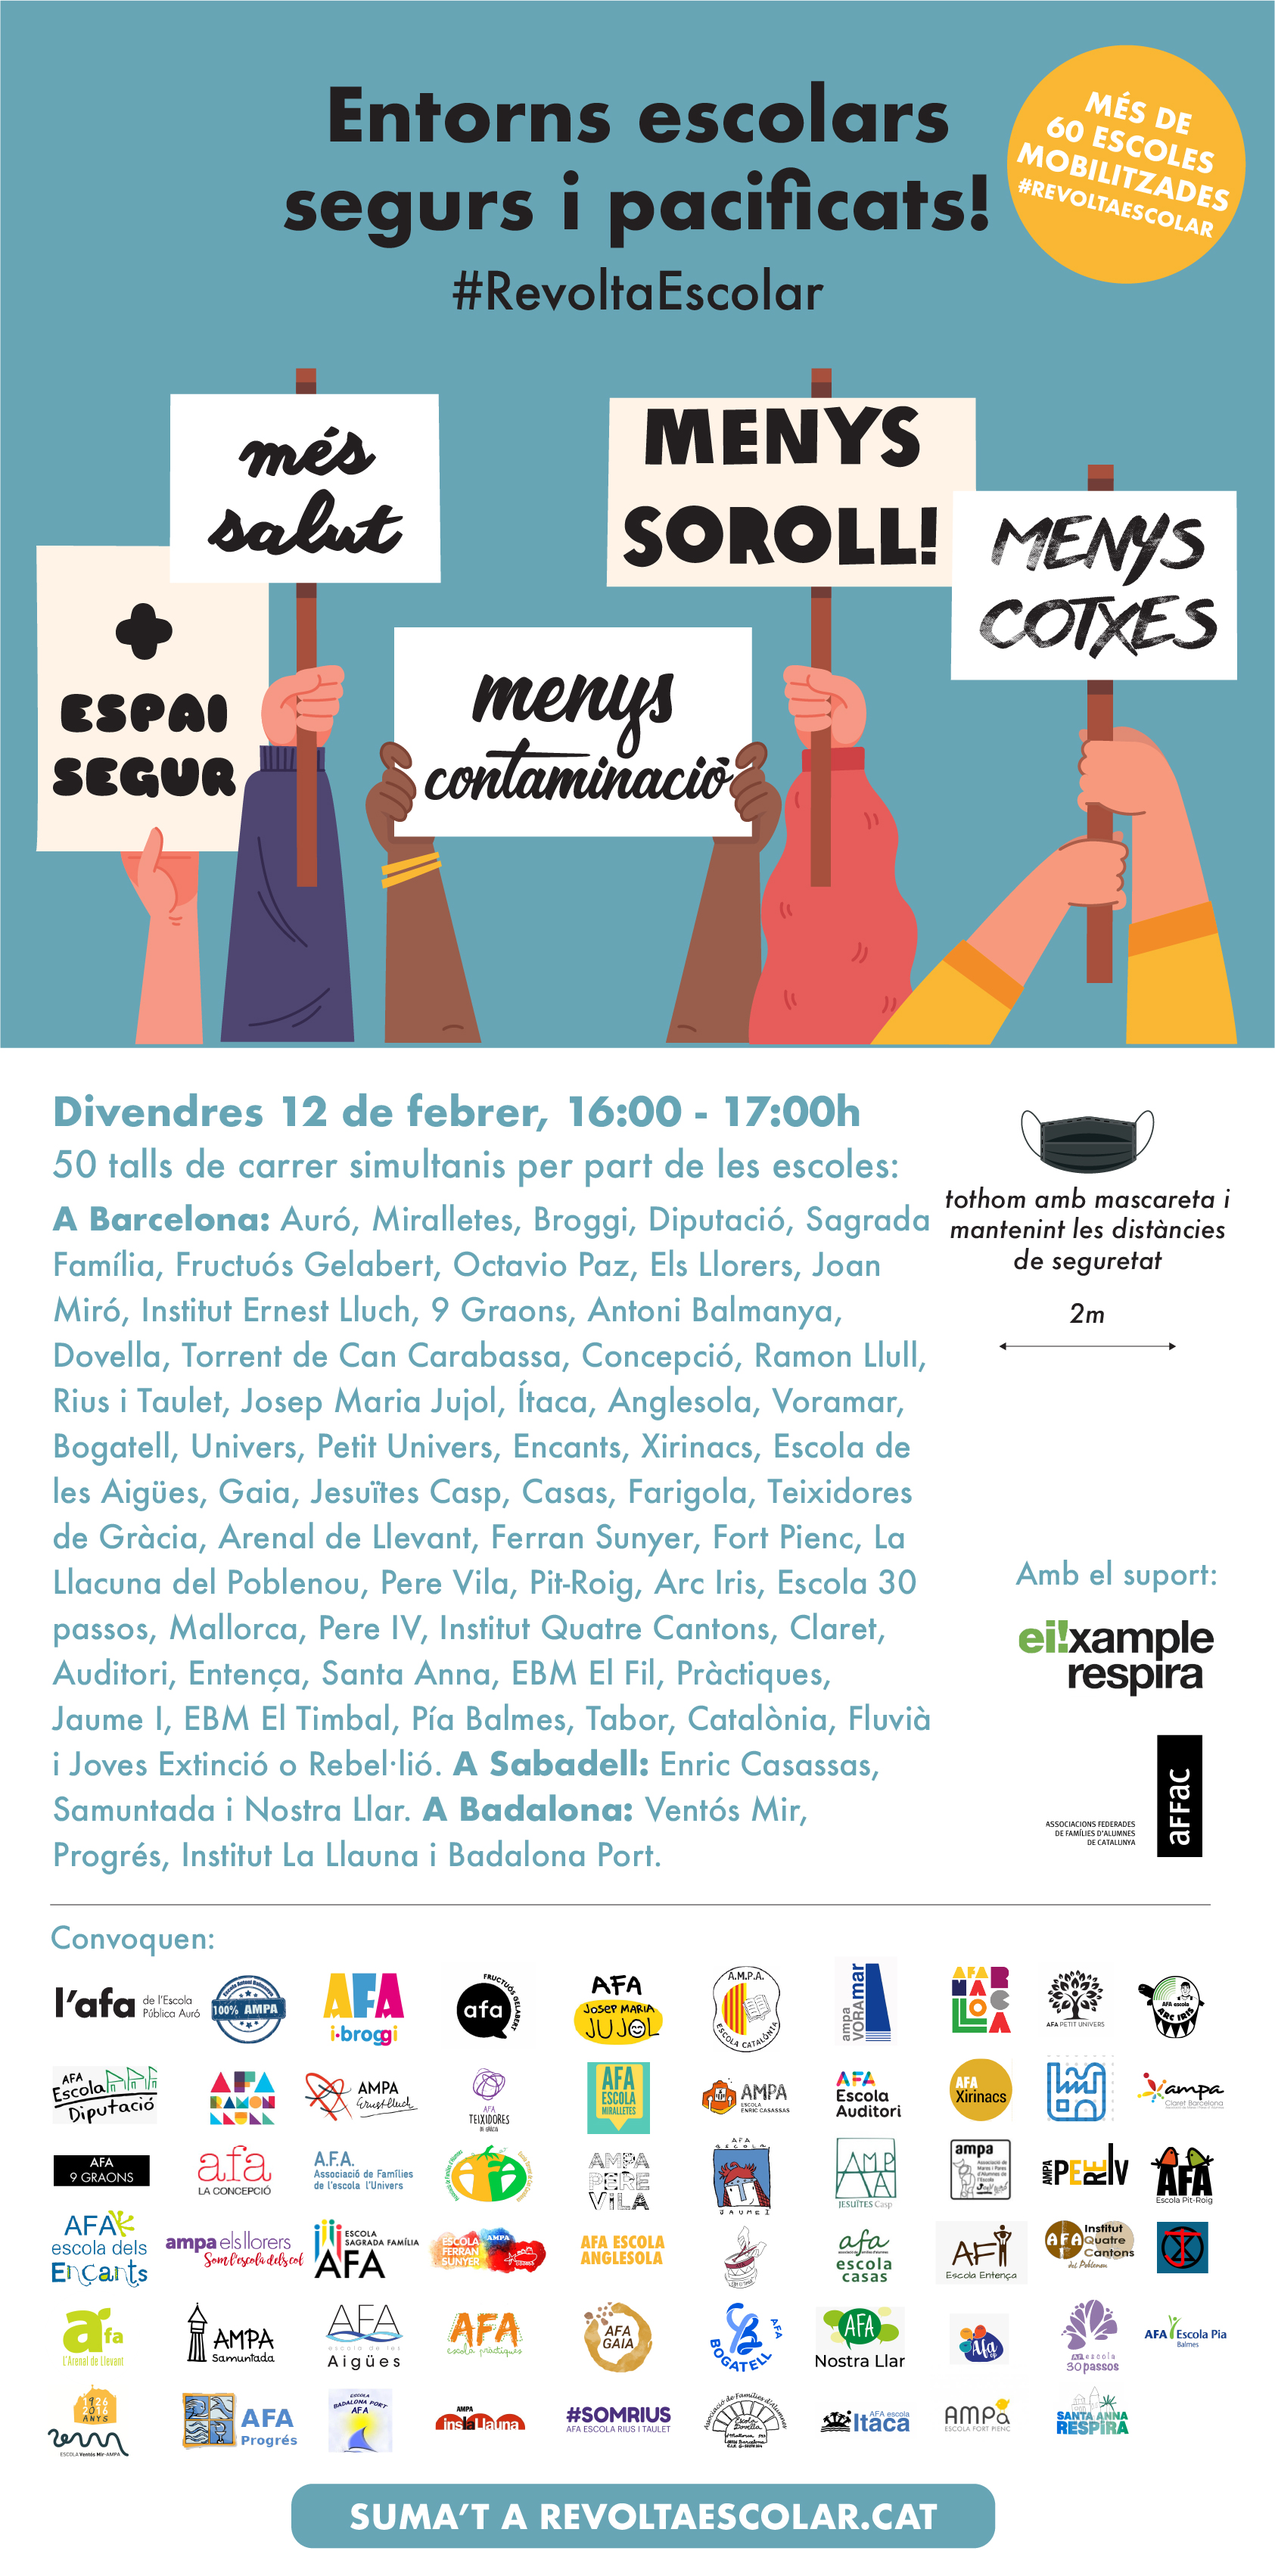
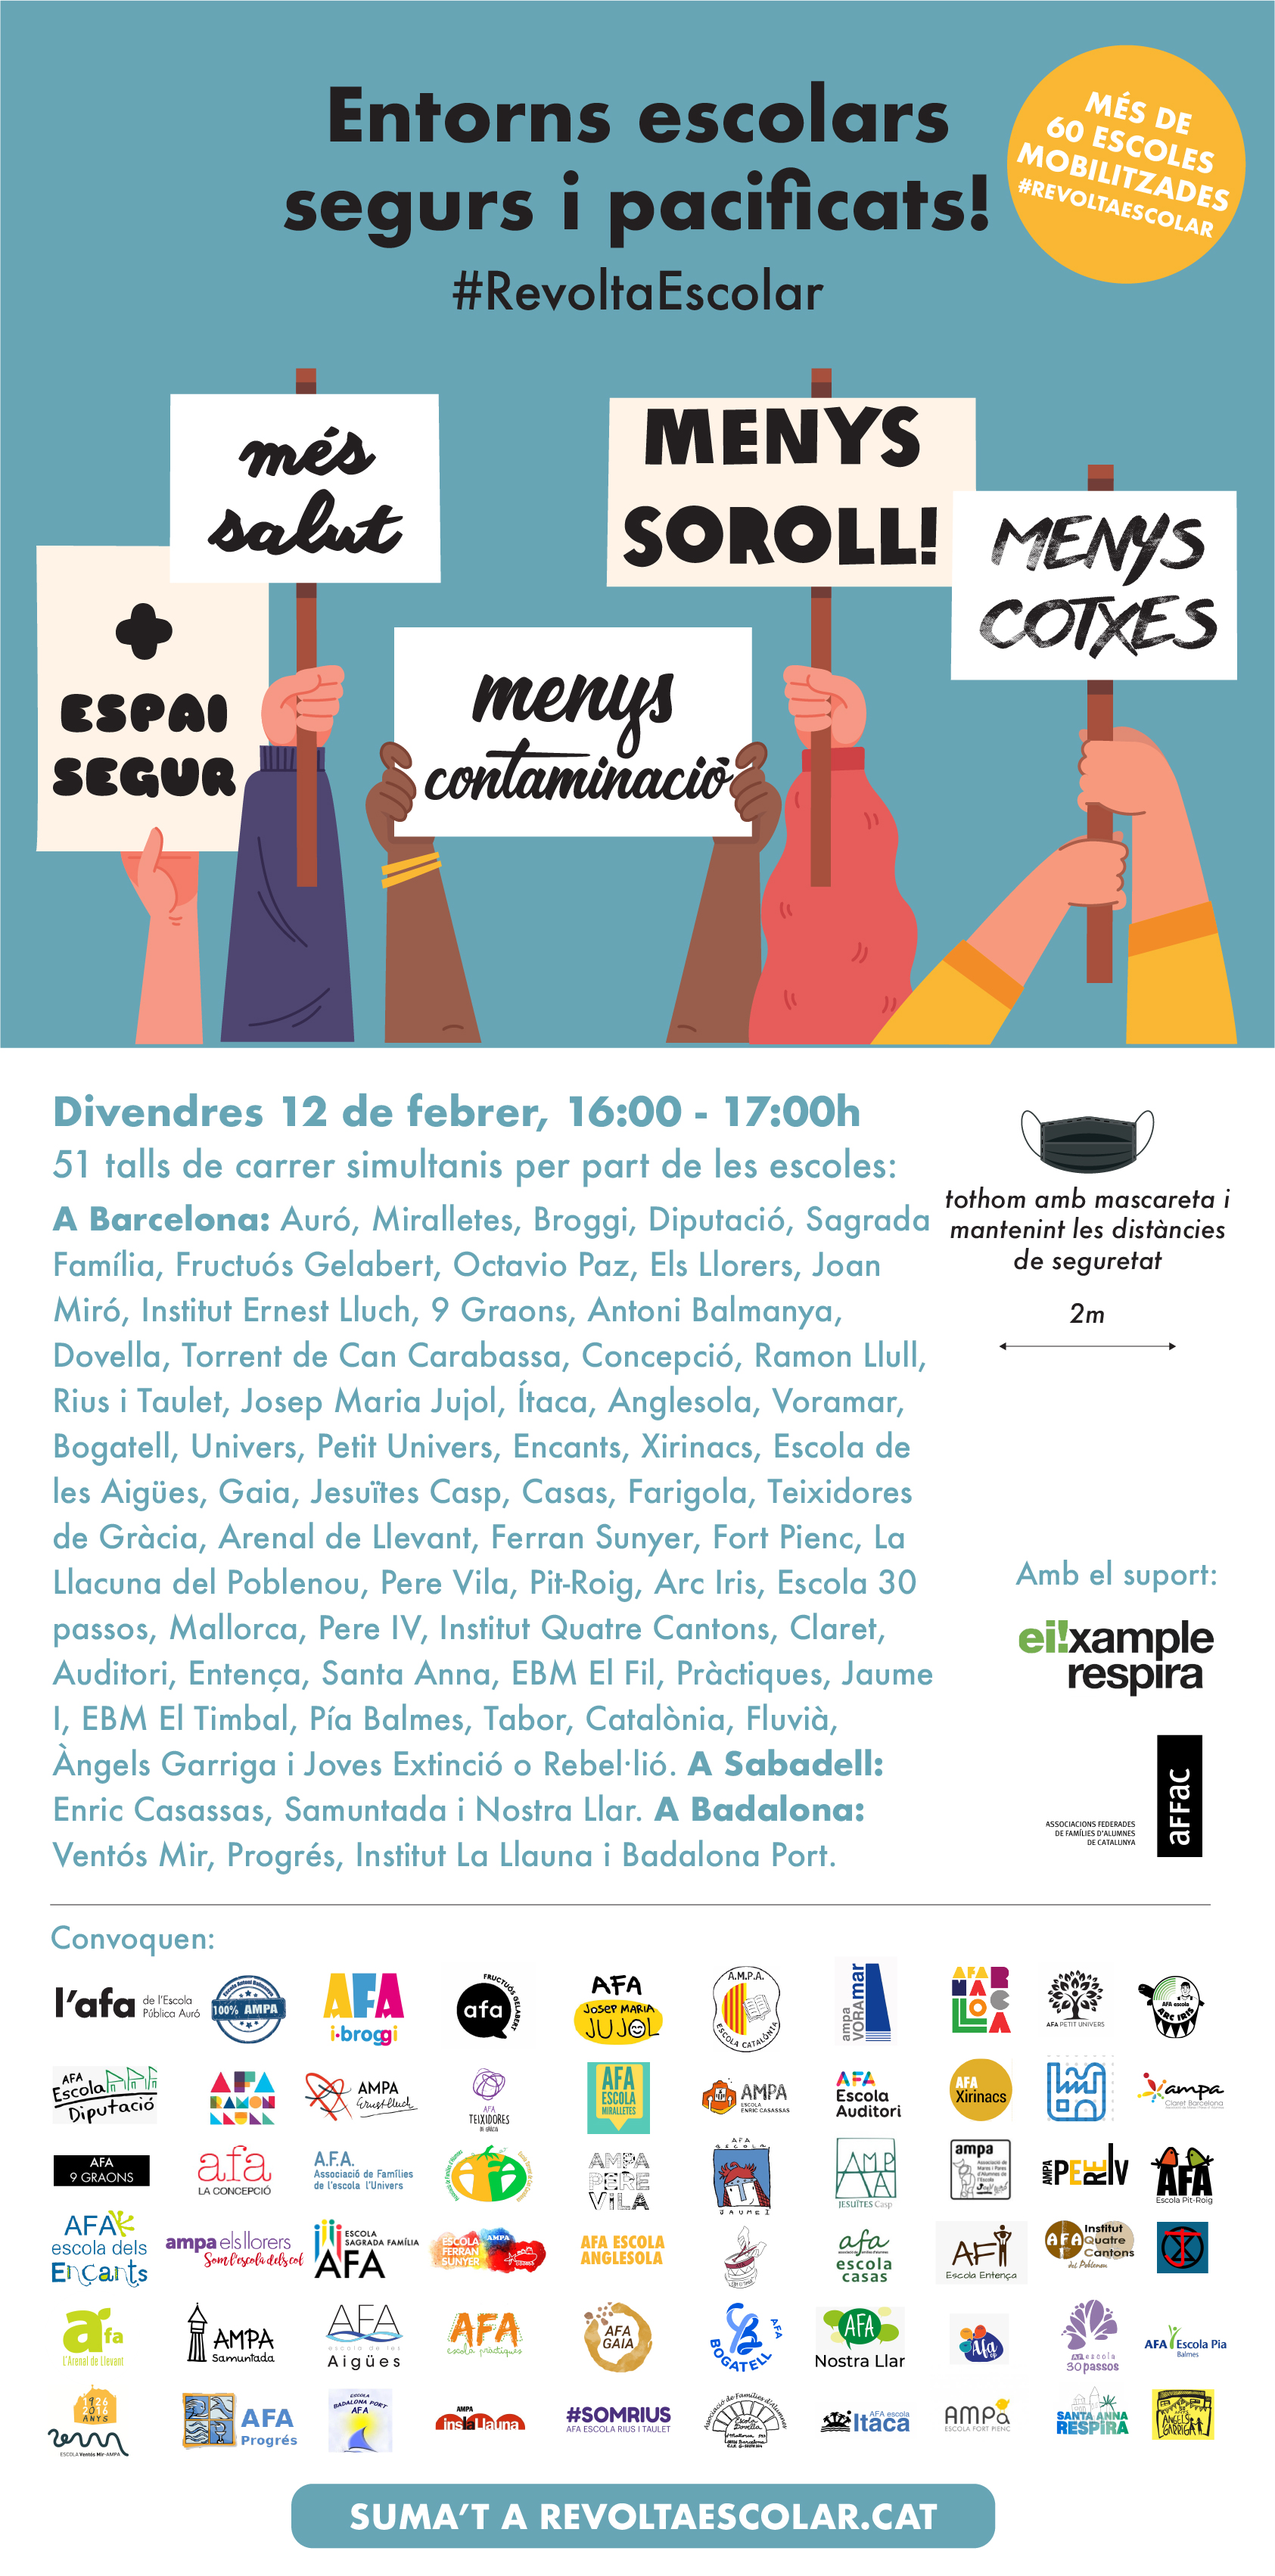
Added new school

diff --git a/index.html b/index.html
@@ -18,7 +18,7 @@
   <link rel="preconnect" href="https://fonts.gstatic.com">
   <link href="https://fonts.googleapis.com/css2?family=Oswald:wght@400;700&display=swap" rel="stylesheet">
   <link href="https://fonts.googleapis.com/css2?family=Open+Sans:wght@400;600&display=swap" rel="stylesheet">
-  <link href="/application.css?v=8" media="all" rel="stylesheet" />
+  <link href="/application.css?v=9" media="all" rel="stylesheet" />
 </head>
 <body class="index">
   <div class="page">
@@ -28,7 +28,7 @@
       <img src="images/cartells.svg">
       <div class="text">
         <p>Diferents AFAs i AMPAs de tot Catalunya, amb la col.laboració d'<a href="https://www.eixamplerespira.com">Eixample Respira</a> i l'<a href="https://affac.cat/">aFFac</a>, estem promovent talls de carrer davant de les escoles cada 15 dies els divendres a la sortida de l'escola (la majoria de 16:30 a 17:00) per tal de reclamar una major pacificació als entorns escolars, menys contaminació i menys soroll.</p>
-        <p>Vam començar al desembre sent 20 escoles, fent 17 talls de carrer. Ara ja sóm 63 escoles mobilitzades que el proper <b>divendres 12 de febrer de 2021 a les 16:30</b> farem 50 talls de carrer simultànis en tres ciutats diferents: <b>Barcelona</b>, <b>Badalona</b> i <b>Sabadell</b>. És el que anomenem: la #<a href="https://twitter.com/search?q=revoltaescolar&src=typed_query&f=live">RevoltaEscolar</a>.</p>
+        <p>Vam començar al desembre sent 20 escoles, fent 17 talls de carrer. Ara ja sóm 63 escoles mobilitzades que el proper <b>divendres 12 de febrer de 2021 a les 16:30</b> farem 51 talls de carrer simultànis en tres ciutats diferents: <b>Barcelona</b>, <b>Badalona</b> i <b>Sabadell</b>. És el que anomenem: la #<a href="https://twitter.com/search?q=revoltaescolar&src=typed_query&f=live">RevoltaEscolar</a>.</p>
         <p>Seria genial si des de la vostra AFA o AMPA també us hi afegíssiu!</p>
         <div class="menu">
           <div class="button">
@@ -103,6 +103,7 @@
             <li><u>Catalònia</u>: Perú entre Selva de Mar i Fluvià (Sant Martí).</li>
             <li><u>Fluvià</u>: Pujades amb Fluvià (Sant Martí).</li>
             <li><u>Joves Extinció o Rebel·lió</u>: Aribau amb Vía Augusta (Sarrià-Sant Gervasi).</li>
+            <li><u>Angels Garriga</u>: Gallecs 22 (Horta-Guinardó).</li>
             <h2 class="city">A Sabadell</h2>
             <li><u>Samuntada</u>: Rotonda de la Torre de l’Aigua.</li>
             <li><u>Enric Casassas</u>: Carrer de les Paus amb Llobet.</li>     
@@ -184,6 +185,7 @@
           <img src="/images/logos/afa-practiques.png" />
           <img src="/images/logos/afa-jaume-I.jpg" />
           <img src="/images/logos/afa-el-timbal.png" />
+          <img src="/images/logos/angels-garriga.png" />
         </div>
         <h2>Sabadell:</h2>
         <div class="logos">
